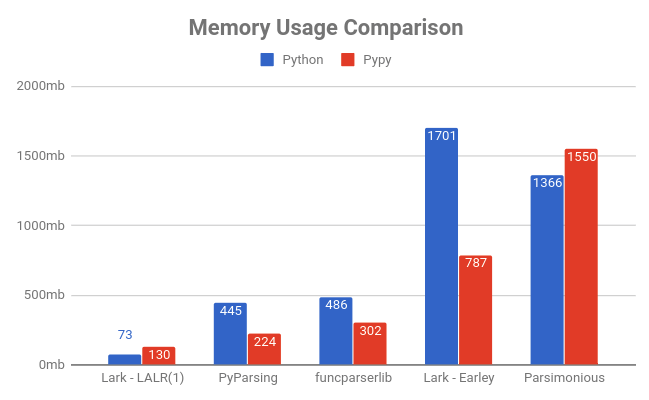
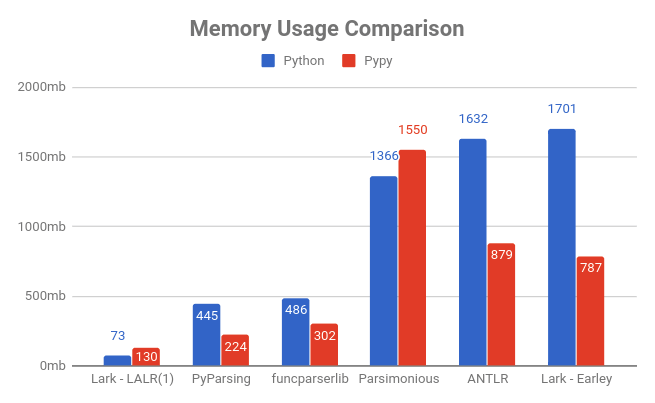
Updated performance comparison to include ANTLR

diff --git a/examples/json_parser.py b/examples/json_parser.py
@@ -51,7 +51,7 @@ class TreeToJson(Transformer):
 # def parse(x):
 #     return TreeToJson().transform(json_parser.parse(x))
 
-json_parser = Lark(json_grammar, parser='lalr', transformer=TreeToJson())
+json_parser = Lark(json_grammar, parser='lalr', lexer='standard', transformer=TreeToJson())
 parse = json_parser.parse
 
 def test():

diff --git a/README.md b/README.md
@@ -111,6 +111,7 @@ Check out the [JSON tutorial](/docs/json_tutorial.md#conclusion) for more detail
 | [Parsley](https://pypi.python.org/pypi/Parsley) | PEG | EBNF | No | No | No\* | No | No |
 | [funcparserlib](https://github.com/vlasovskikh/funcparserlib) | Recursive-Descent | Combinators | No | No | No | No | No |
 | [Parsimonious](https://github.com/erikrose/parsimonious) | PEG | EBNF | Yes | No | No\* | No | No |
+| [ANTLR](https://github.com/antlr/antlr4) | LL(*) | EBNF | Yes | No | Yes? | Yes | No |
 
 
 (\* *PEGs cannot handle non-deterministic grammars. Also, according to Wikipedia, it remains unanswered whether PEGs can really parse all deterministic CFGs*)
